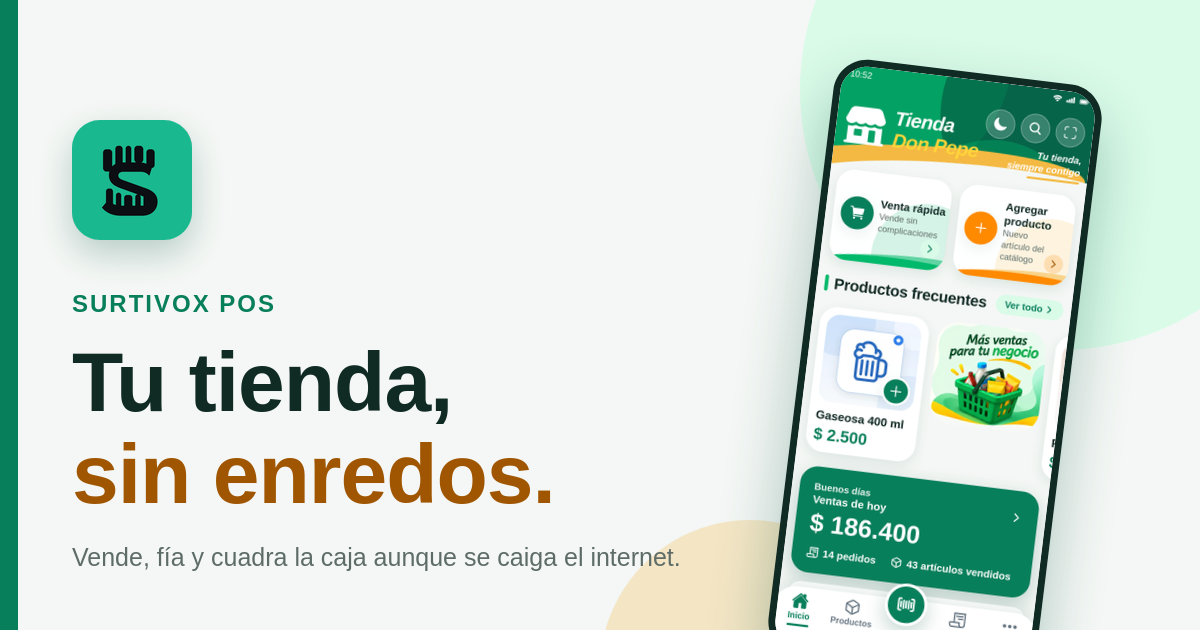
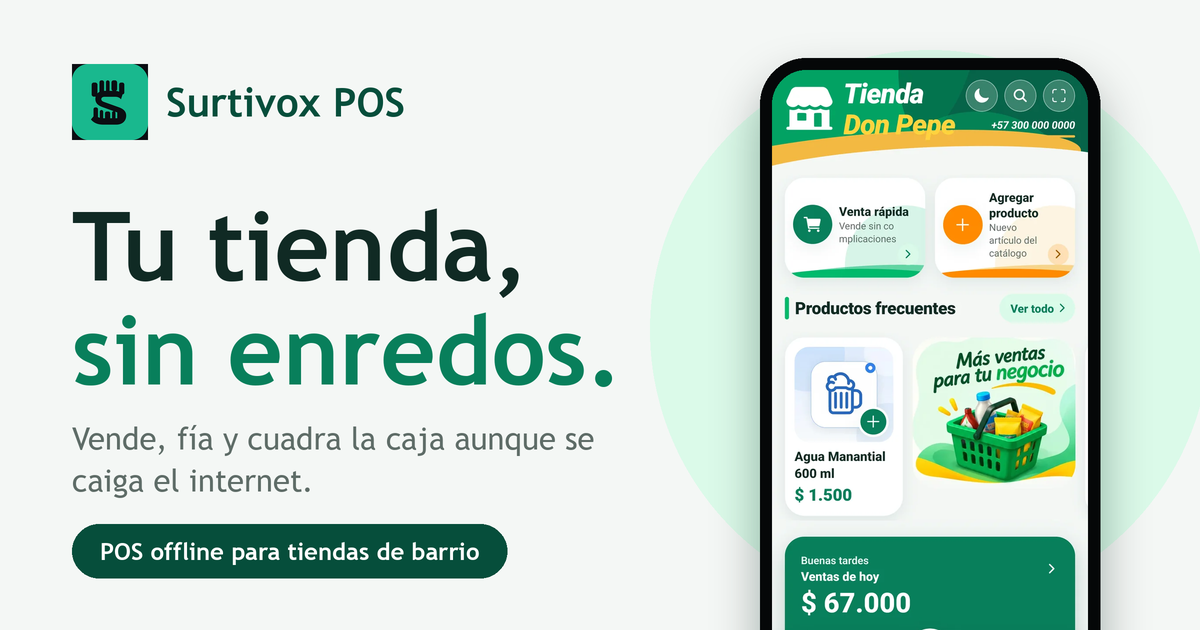
Rehacer la imagen para compartir con una captura real de la app
og-image.png (1200x630) mostraba una maqueta. Ahora el titular "Tu
tienda, sin enredos." y el subtítulo de la landing acompañan a una
captura real de Inicio dentro de un teléfono, con la tipografía y la
paleta de marca (Trebuchet MS, verde #087F5B, fondo #F4F7F5).

Se genera con scripts/make-og-image.py a partir de
landing/assets/screen-home.webp y de icon-180.png, así que se puede
regenerar sin carpetas temporales. El script comprueba antes de guardar
que ningún texto se salga del lienzo, invada la zona del teléfono o se
solape con otro. Los contrastes de texto salen entre 4,6:1 y 14,1:1.

No se ha visto la imagen resultante: se verificó por medidas y por
píxeles, no a ojo.

diff --git a/scripts/make-og-image.py b/scripts/make-og-image.py
@@ -1,0 +1,175 @@
+import sys
+from pathlib import Path
+from PIL import Image, ImageDraw, ImageFilter, ImageFont
+
+ROOT = Path(__file__).resolve().parent.parent
+ASSETS = ROOT / "landing" / "assets"
+FONT_DIRS = [Path("/usr/share/fonts/truetype/msttcorefonts"), Path("/usr/share/fonts/truetype/liberation")]
+BOLD = ["Trebuchet_MS_Bold.ttf", "trebucbd.ttf", "LiberationSans-Bold.ttf"]
+REGULAR = ["Trebuchet_MS.ttf", "trebuc.ttf", "LiberationSans-Regular.ttf"]
+
+SCALE = 2
+WIDTH, HEIGHT = 1200, 630
+BG = (244, 247, 245)
+INK = (16, 42, 36)
+ACCENT = (8, 127, 91)
+DEEP = (6, 78, 59)
+MUTED = (94, 108, 103)
+MINT = (219, 250, 233)
+PHONE = (5, 7, 8)
+TEXT_LEFT = 72
+TEXT_MAX_RIGHT = 690
+SUBTITLE_WIDTH = 540
+PHONE_LEFT = 760
+
+
+def find_font(names):
+    for directory in FONT_DIRS:
+        for name in names:
+            candidate = directory / name
+            if candidate.exists():
+                return str(candidate)
+    sys.exit("No se encontró una tipografía compatible: " + ", ".join(names))
+
+
+BOLD_PATH = find_font(BOLD)
+REGULAR_PATH = find_font(REGULAR)
+
+
+def font(path, size):
+    return ImageFont.truetype(path, round(size * SCALE))
+
+
+def px(value):
+    return round(value * SCALE)
+
+
+def fit_font(draw, text, path, size, max_width):
+    while size > 20:
+        candidate = font(path, size)
+        if draw.textlength(text, font=candidate) <= px(max_width):
+            return candidate, size
+        size -= 2
+    sys.exit("El texto no cabe: " + text)
+
+
+def wrap(draw, text, candidate, max_width):
+    lines, current = [], ""
+    for word in text.split():
+        trial = (current + " " + word).strip()
+        if draw.textlength(trial, font=candidate) <= px(max_width):
+            current = trial
+        else:
+            lines.append(current)
+            current = word
+    lines.append(current)
+    return lines
+
+
+def rounded_mask(size, radius):
+    mask = Image.new("L", size, 0)
+    ImageDraw.Draw(mask).rounded_rectangle((0, 0, size[0] - 1, size[1] - 1), radius=radius, fill=255)
+    return mask
+
+
+def build():
+    canvas = Image.new("RGB", (px(WIDTH), px(HEIGHT)), BG)
+    draw = ImageDraw.Draw(canvas)
+    boxes = {}
+
+    circle = (px(930 - 280), px(330 - 280), px(930 + 280), px(330 + 280))
+    draw.ellipse(circle, fill=MINT)
+
+    shot = Image.open(ASSETS / "screen-home.webp").convert("RGB")
+    screen_w = 316
+    screen_h = round(shot.height * screen_w / shot.width)
+    shot = shot.resize((px(screen_w), px(screen_h)), Image.LANCZOS)
+    pad = 12
+    outer_w, outer_h = screen_w + pad * 2, screen_h + pad * 2
+    phone_top = 58
+
+    shadow = Image.new("RGBA", canvas.size, (0, 0, 0, 0))
+    ImageDraw.Draw(shadow).rounded_rectangle(
+        (px(PHONE_LEFT), px(phone_top + 26), px(PHONE_LEFT + outer_w), px(phone_top + 26 + outer_h)),
+        radius=px(46), fill=(6, 78, 59, 90),
+    )
+    shadow = shadow.filter(ImageFilter.GaussianBlur(px(22)))
+    canvas.paste(Image.alpha_composite(canvas.convert("RGBA"), shadow).convert("RGB"))
+    draw = ImageDraw.Draw(canvas)
+
+    draw.rounded_rectangle(
+        (px(PHONE_LEFT), px(phone_top), px(PHONE_LEFT + outer_w), px(phone_top + outer_h)),
+        radius=px(46), fill=PHONE,
+    )
+    canvas.paste(shot, (px(PHONE_LEFT + pad), px(phone_top + pad)), rounded_mask(shot.size, px(34)))
+    boxes["telefono"] = (PHONE_LEFT, phone_top, PHONE_LEFT + outer_w, min(phone_top + outer_h, HEIGHT))
+    draw = ImageDraw.Draw(canvas)
+
+    icon = Image.open(ASSETS / "icon-180.png").convert("RGBA").resize((px(76), px(76)), Image.LANCZOS)
+    canvas.paste(icon, (px(TEXT_LEFT), px(64)), icon)
+    boxes["icono"] = (TEXT_LEFT, 64, TEXT_LEFT + 76, 64 + 76)
+
+    brand_font, _ = fit_font(draw, "Surtivox POS", BOLD_PATH, 40, TEXT_MAX_RIGHT - (TEXT_LEFT + 94))
+    brand_x = TEXT_LEFT + 94
+    brand_box = draw.textbbox((px(brand_x), px(64 + 38)), "Surtivox POS", font=brand_font, anchor="lm")
+    draw.text((px(brand_x), px(64 + 38)), "Surtivox POS", font=brand_font, fill=DEEP, anchor="lm")
+    boxes["marca"] = tuple(round(v / SCALE) for v in brand_box)
+
+    title_font, title_size = fit_font(draw, "sin enredos.", BOLD_PATH, 96, TEXT_MAX_RIGHT - TEXT_LEFT)
+    line_gap = round(title_size * 1.08)
+    top = 190
+    for index, (line, color) in enumerate((("Tu tienda,", INK), ("sin enredos.", ACCENT))):
+        y = top + index * line_gap
+        box = draw.textbbox((px(TEXT_LEFT), px(y)), line, font=title_font, anchor="la")
+        draw.text((px(TEXT_LEFT), px(y)), line, font=title_font, fill=color, anchor="la")
+        boxes[f"titular{index + 1}"] = tuple(round(v / SCALE) for v in box)
+
+    sub_font, _ = fit_font(draw, "aunque se caiga el internet.", REGULAR_PATH, 31, SUBTITLE_WIDTH)
+    sub_top = top + 2 * line_gap + 22
+    for index, line in enumerate(wrap(draw, "Vende, fía y cuadra la caja aunque se caiga el internet.", sub_font, SUBTITLE_WIDTH)):
+        y = sub_top + index * 42
+        box = draw.textbbox((px(TEXT_LEFT), px(y)), line, font=sub_font, anchor="la")
+        draw.text((px(TEXT_LEFT), px(y)), line, font=sub_font, fill=MUTED, anchor="la")
+        boxes[f"subtitulo{index + 1}"] = tuple(round(v / SCALE) for v in box)
+
+    pill_text = "POS offline para tiendas de barrio"
+    pill_font, _ = fit_font(draw, pill_text, BOLD_PATH, 24, TEXT_MAX_RIGHT - TEXT_LEFT - 56)
+    text_w = draw.textlength(pill_text, font=pill_font) / SCALE
+    pill = (TEXT_LEFT, 524, round(TEXT_LEFT + text_w + 56), 524 + 54)
+    draw.rounded_rectangle(tuple(px(v) for v in pill), radius=px(27), fill=DEEP)
+    draw.text((px(pill[0] + 28), px(pill[1] + 27)), pill_text, font=pill_font, fill=(255, 255, 255), anchor="lm")
+    boxes["etiqueta"] = pill
+
+    final = canvas.resize((WIDTH, HEIGHT), Image.LANCZOS)
+    return final, boxes
+
+
+def overlaps(a, b):
+    return not (a[2] <= b[0] or b[2] <= a[0] or a[3] <= b[1] or b[3] <= a[1])
+
+
+def verify(boxes):
+    errors = []
+    for name, box in boxes.items():
+        if box[0] < 0 or box[1] < 0 or box[2] > WIDTH or box[3] > HEIGHT:
+            errors.append(f"{name} se sale del lienzo: {box}")
+        if name != "telefono" and box[2] > TEXT_MAX_RIGHT:
+            errors.append(f"{name} invade la zona del teléfono: {box}")
+    names = [n for n in boxes if n != "telefono"]
+    for i, first in enumerate(names):
+        for second in names[i + 1:]:
+            if overlaps(boxes[first], boxes[second]):
+                errors.append(f"{first} y {second} se solapan")
+    return errors
+
+
+if __name__ == "__main__":
+    image, boxes = build()
+    problems = verify(boxes)
+    for name, box in boxes.items():
+        print(f"{name.ljust(11)} {box}")
+    if problems:
+        sys.exit("\n".join(problems))
+    target = ASSETS / "og-image.png"
+    image.save(target, optimize=True)
+    print(f"og-image.png guardado: {image.size}, {target.stat().st_size / 1024:.0f} KB")
